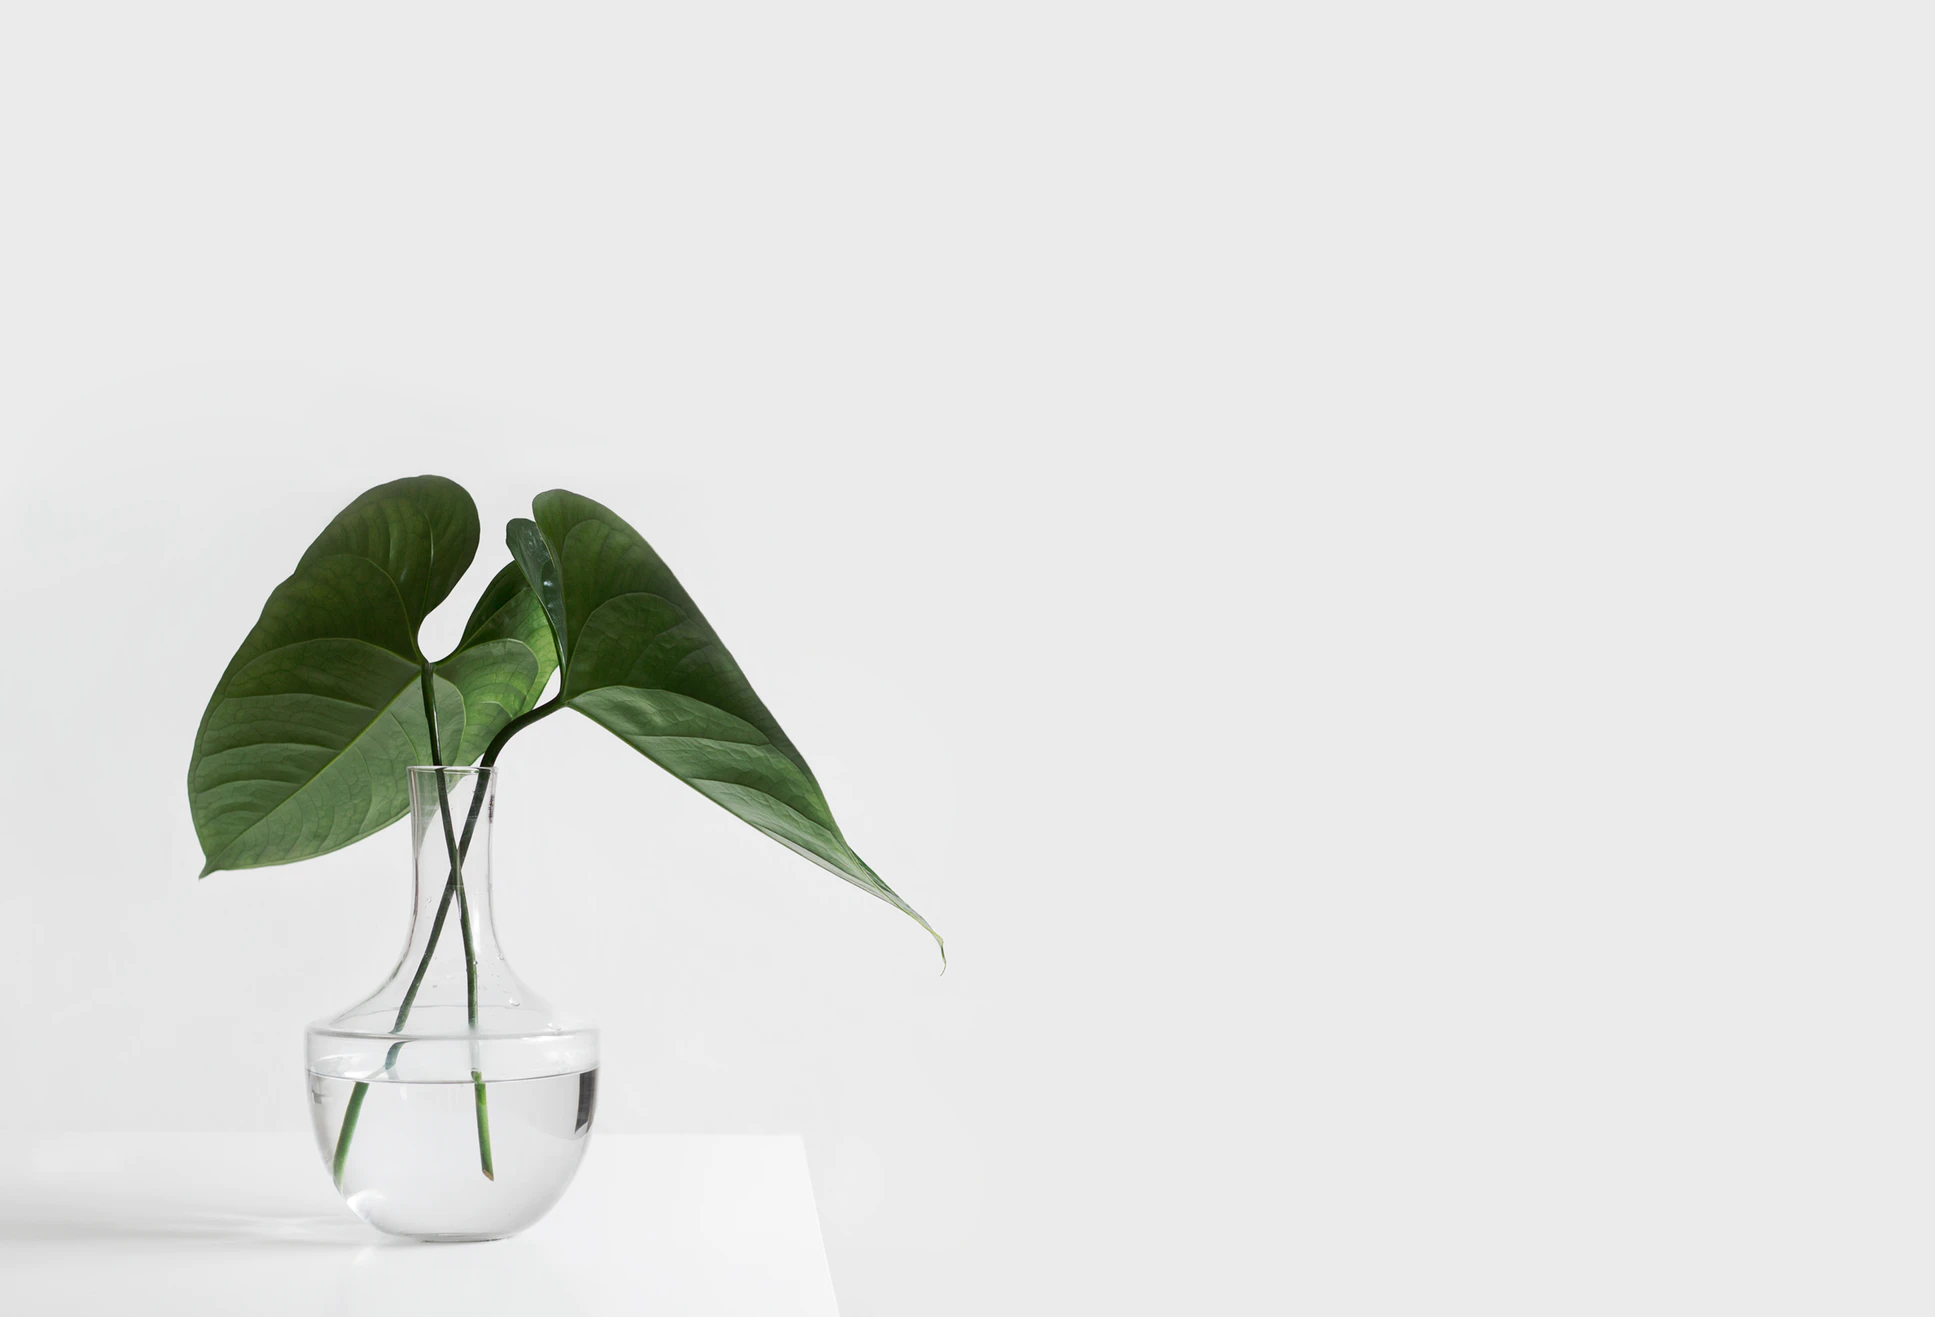
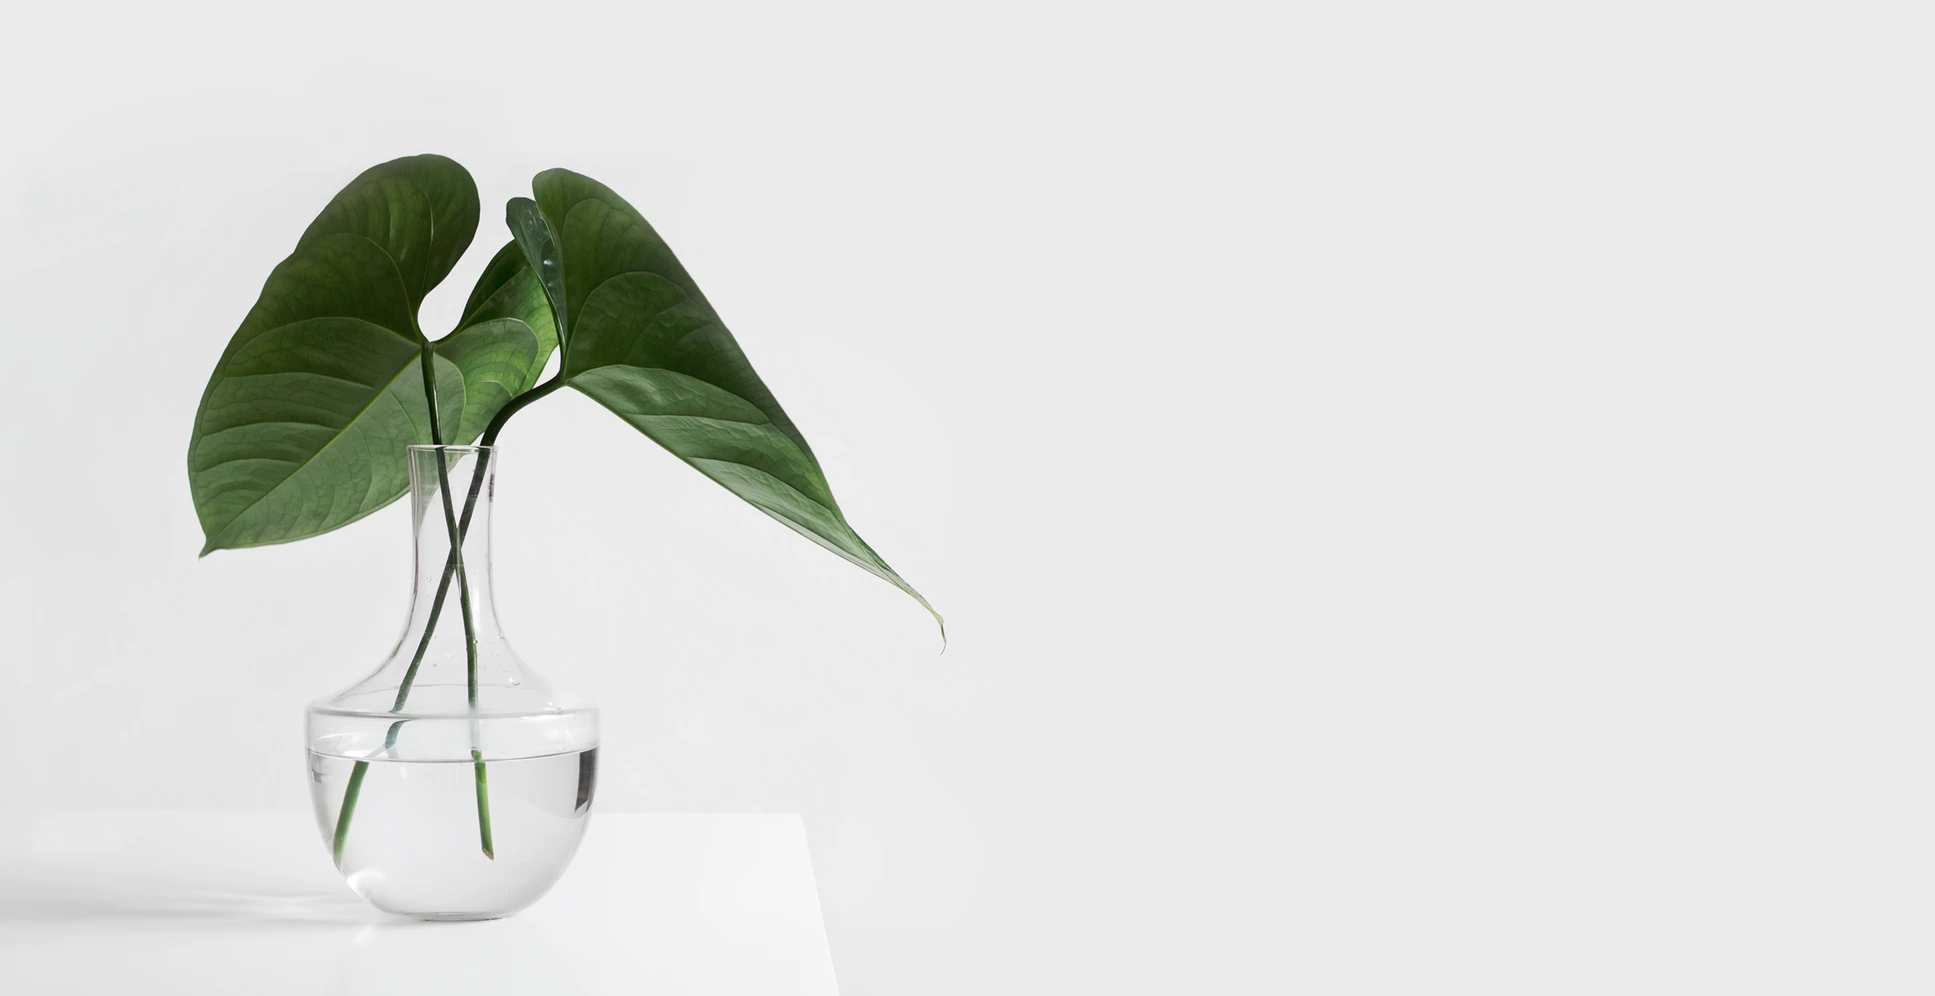
finished the first page of the website

Changed region(s): [[0.093, 0.1556, 0.4651, 0.9649], [0.4651, 0.6847, 0.4961, 0.7159], [0.4651, 0.5914, 0.4961, 0.6225]]

diff --git a/CSS/index.css b/CSS/index.css
@@ -134,7 +134,7 @@ table {
 }
 html,
 body {
-  background-image: url("Images/image-planet.png");
+  background-image: url("/Images/image-planet.png");
   font-family: 'Cabin', sans-serif;
 }
 h1,
@@ -182,8 +182,9 @@ h6 {
 .saying {
   display: flex;
   justify-content: flex-end;
-  height: 42rem;
-  align-items: center;
+  height: 32rem;
+  align-items: space-around;
+  margin-top: 8rem;
 }
 .saying .qoute {
   width: 50%;

diff --git a/less/nav.less b/less/nav.less
@@ -38,8 +38,10 @@
 .saying{
     display: flex;
     justify-content: flex-end;
-    height: 42rem;
-    align-items: center;
+    height: 32rem;
+    align-items: space-around;
+    margin-top: 8rem;
+
     .qoute{
         width:50%;
         font-size: 2rem;

diff --git a/less/global.less b/less/global.less
@@ -7,7 +7,7 @@
 
 
 html, body {
-    background-image:url("Images/image-planet.png");
+    background-image:url("/Images/image-planet.png");
     font-family: @bodyFonts;
     
 }
